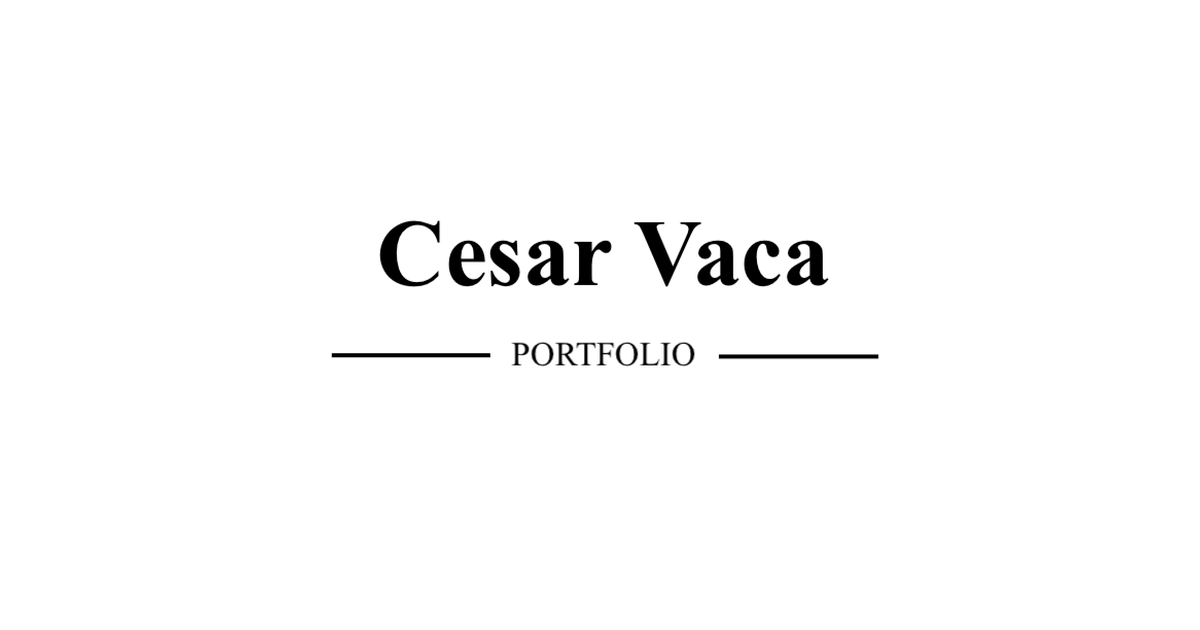
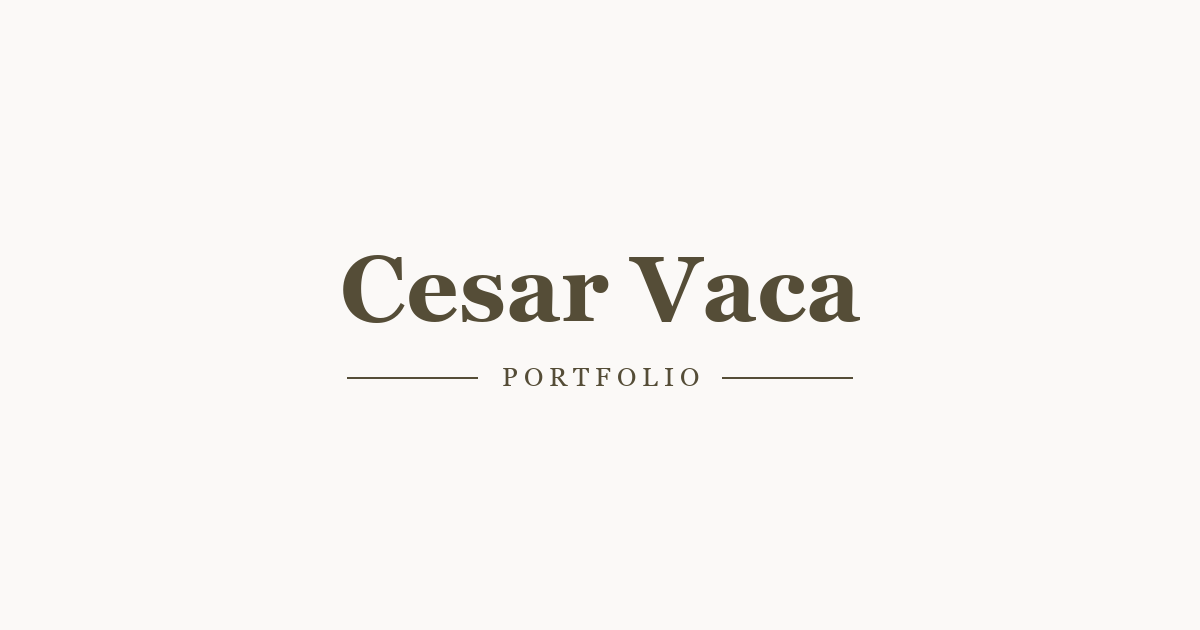
Regenerate OG image to match site palette and typeface
Same wordmark layout as the owner's original PNG, but rebuilt with
Pillow using the light-theme --bg/--text tokens and Georgia (the
site's font) instead of the original file's own colors/typeface, so
it no longer drifts from the live site's look.

Changed region(s): [[0.2775, 0.3317, 0.74, 0.5127], [0.2775, 0.5429, 0.74, 0.6333]]

diff --git a/CLAUDE.md b/CLAUDE.md
@@ -391,11 +391,23 @@ purely a content/marketing decision, unrelated to the Operational security
 section above (which is about sanitizing project *detail*, not about
 whether the clearance is mentioned at all).
 
-The OG image is a light-background "Cesar Vaca / PORTFOLIO" wordmark the
-owner supplied, not the dark-background name+title+clearance design
-originally sketched in the roadmap below — that plan is superseded, this is
-the real design now. It was resized/padded (not cropped) from 1000×612 to
-exactly 1200×630 with matching white padding on the sides.
+The OG image is a "Cesar Vaca / PORTFOLIO" wordmark — same layout the owner
+originally supplied as a PNG (name in large bold serif, "PORTFOLIO" in
+letter-spaced small caps flanked by two horizontal rules) — not the
+dark-background name+title+clearance design originally sketched in the
+roadmap below — that plan is superseded, this is the real design now. It's
+since been **regenerated in-code** (`Pillow`, not the owner's original file)
+to track the site's actual palette and typeface instead of drifting from
+them: background/text are the light-theme tokens (`--bg: #fbf9f7`,
+`--text: #554d37`), and the type is Georgia Bold / Georgia — the same
+system-serif family the site's `body` uses (see Conventions) — rather than
+whatever font was baked into the owner's original PNG. There's no build
+step or committed generator script for this (same as the cert JPEGs — a
+one-off Pillow script run ad hoc, not saved in the repo), so regenerating it
+after another palette/font change means re-running that kind of script
+again rather than hand-editing pixels. Still exactly 1200×630, RGB PNG, no
+transparency (matches what Facebook/LinkedIn/iMessage preview cards
+expect).
 
 **Cert images are real now**, not placeholders — the owner sent the actual
 PDF certificates (sourced from
